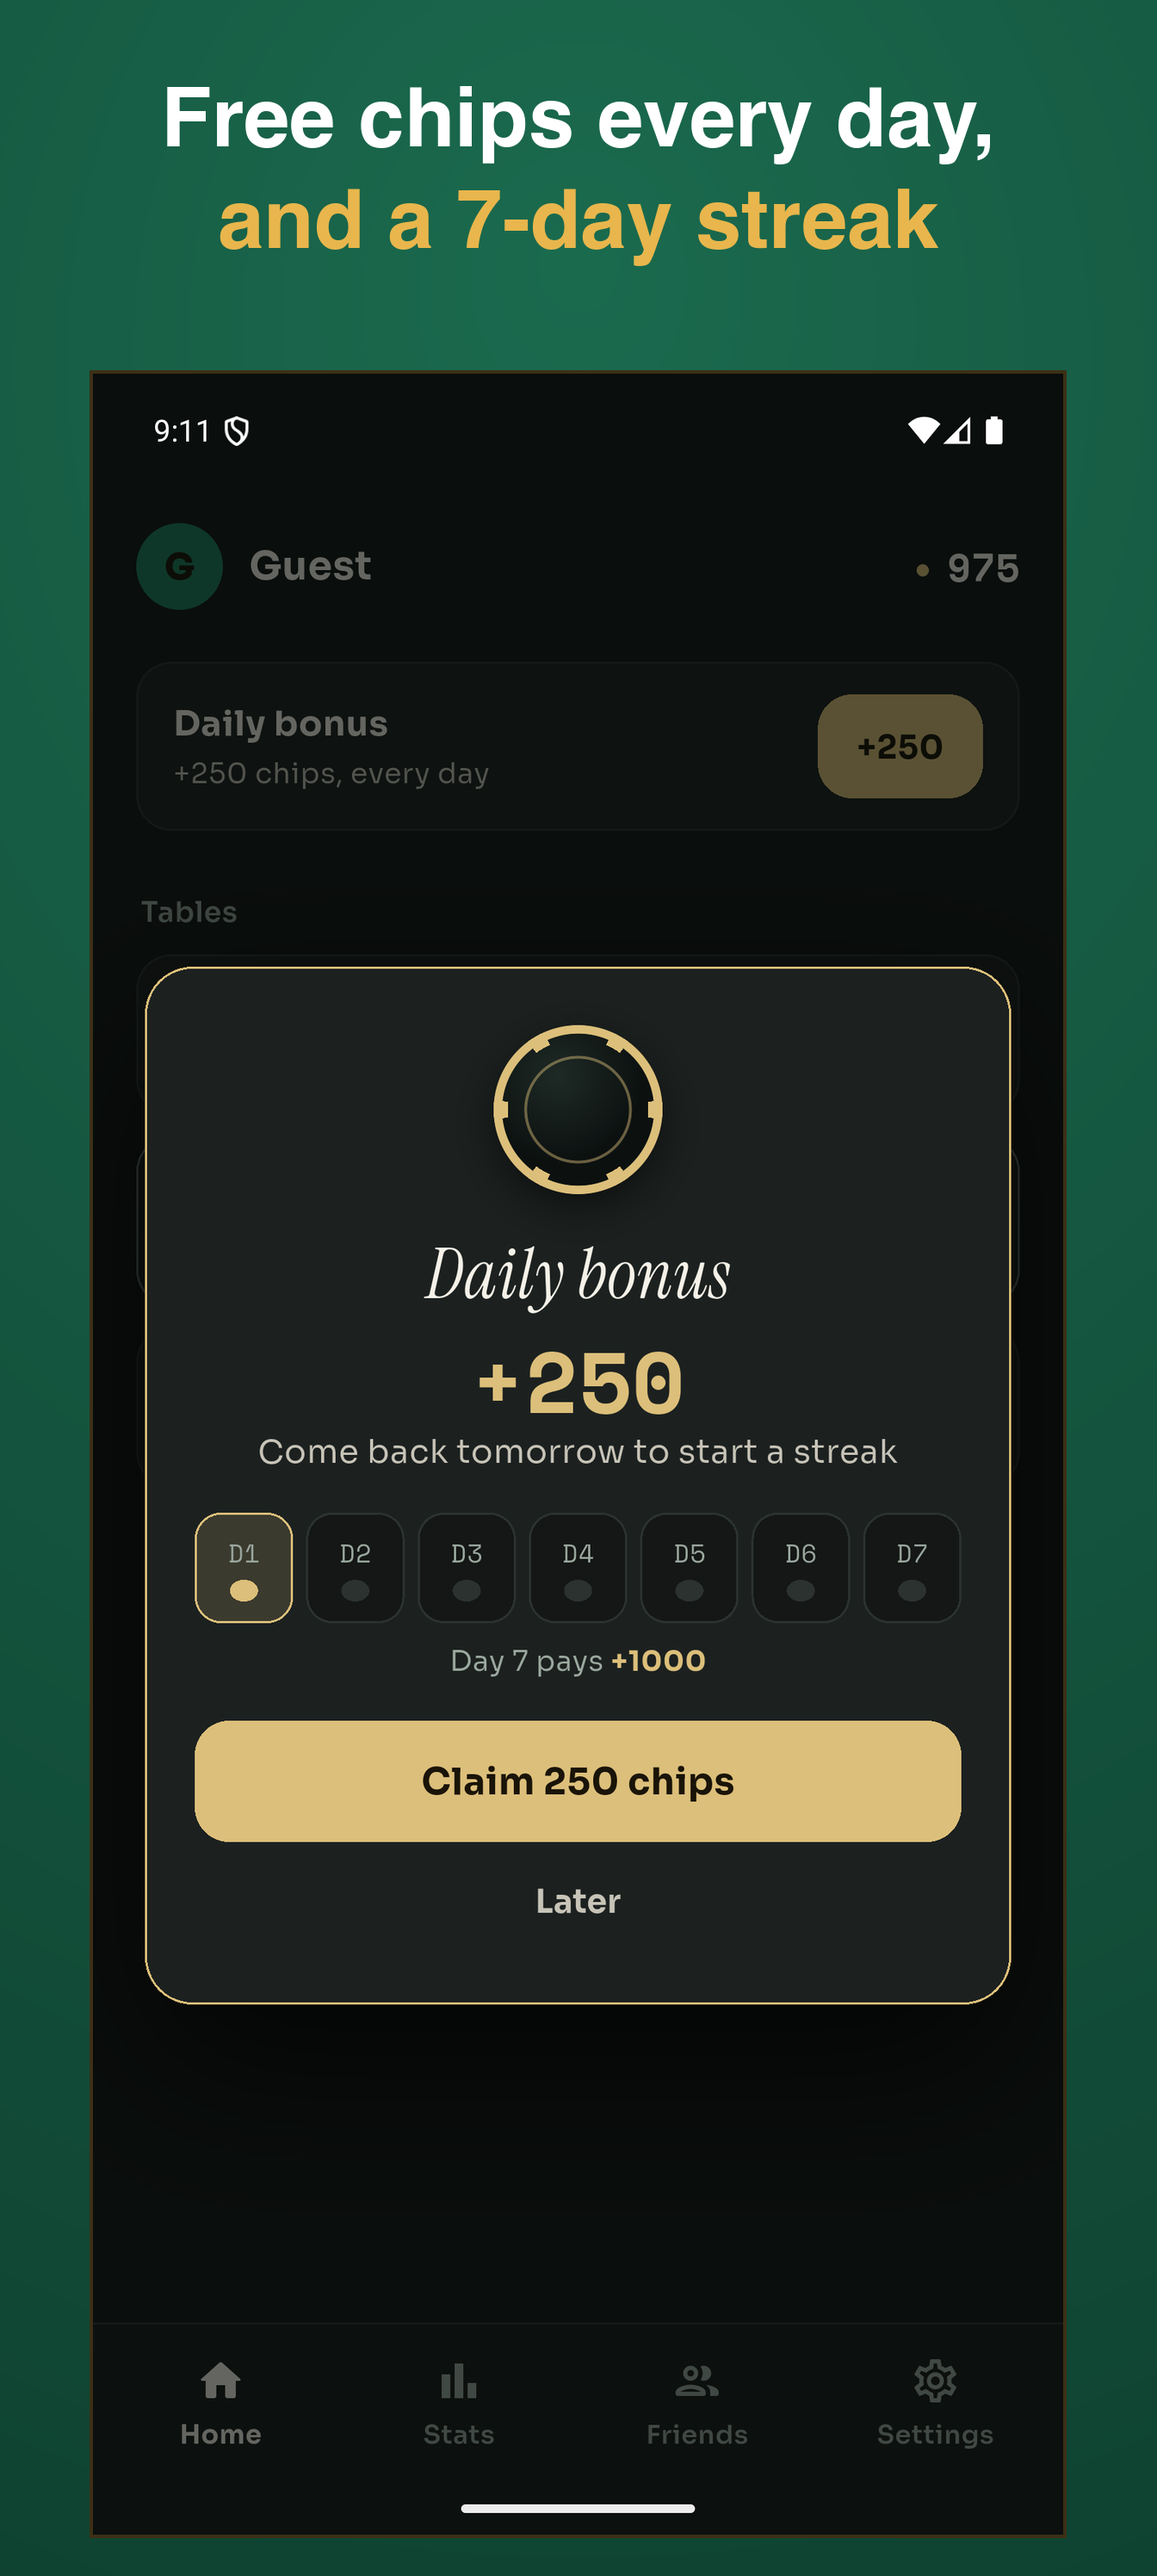
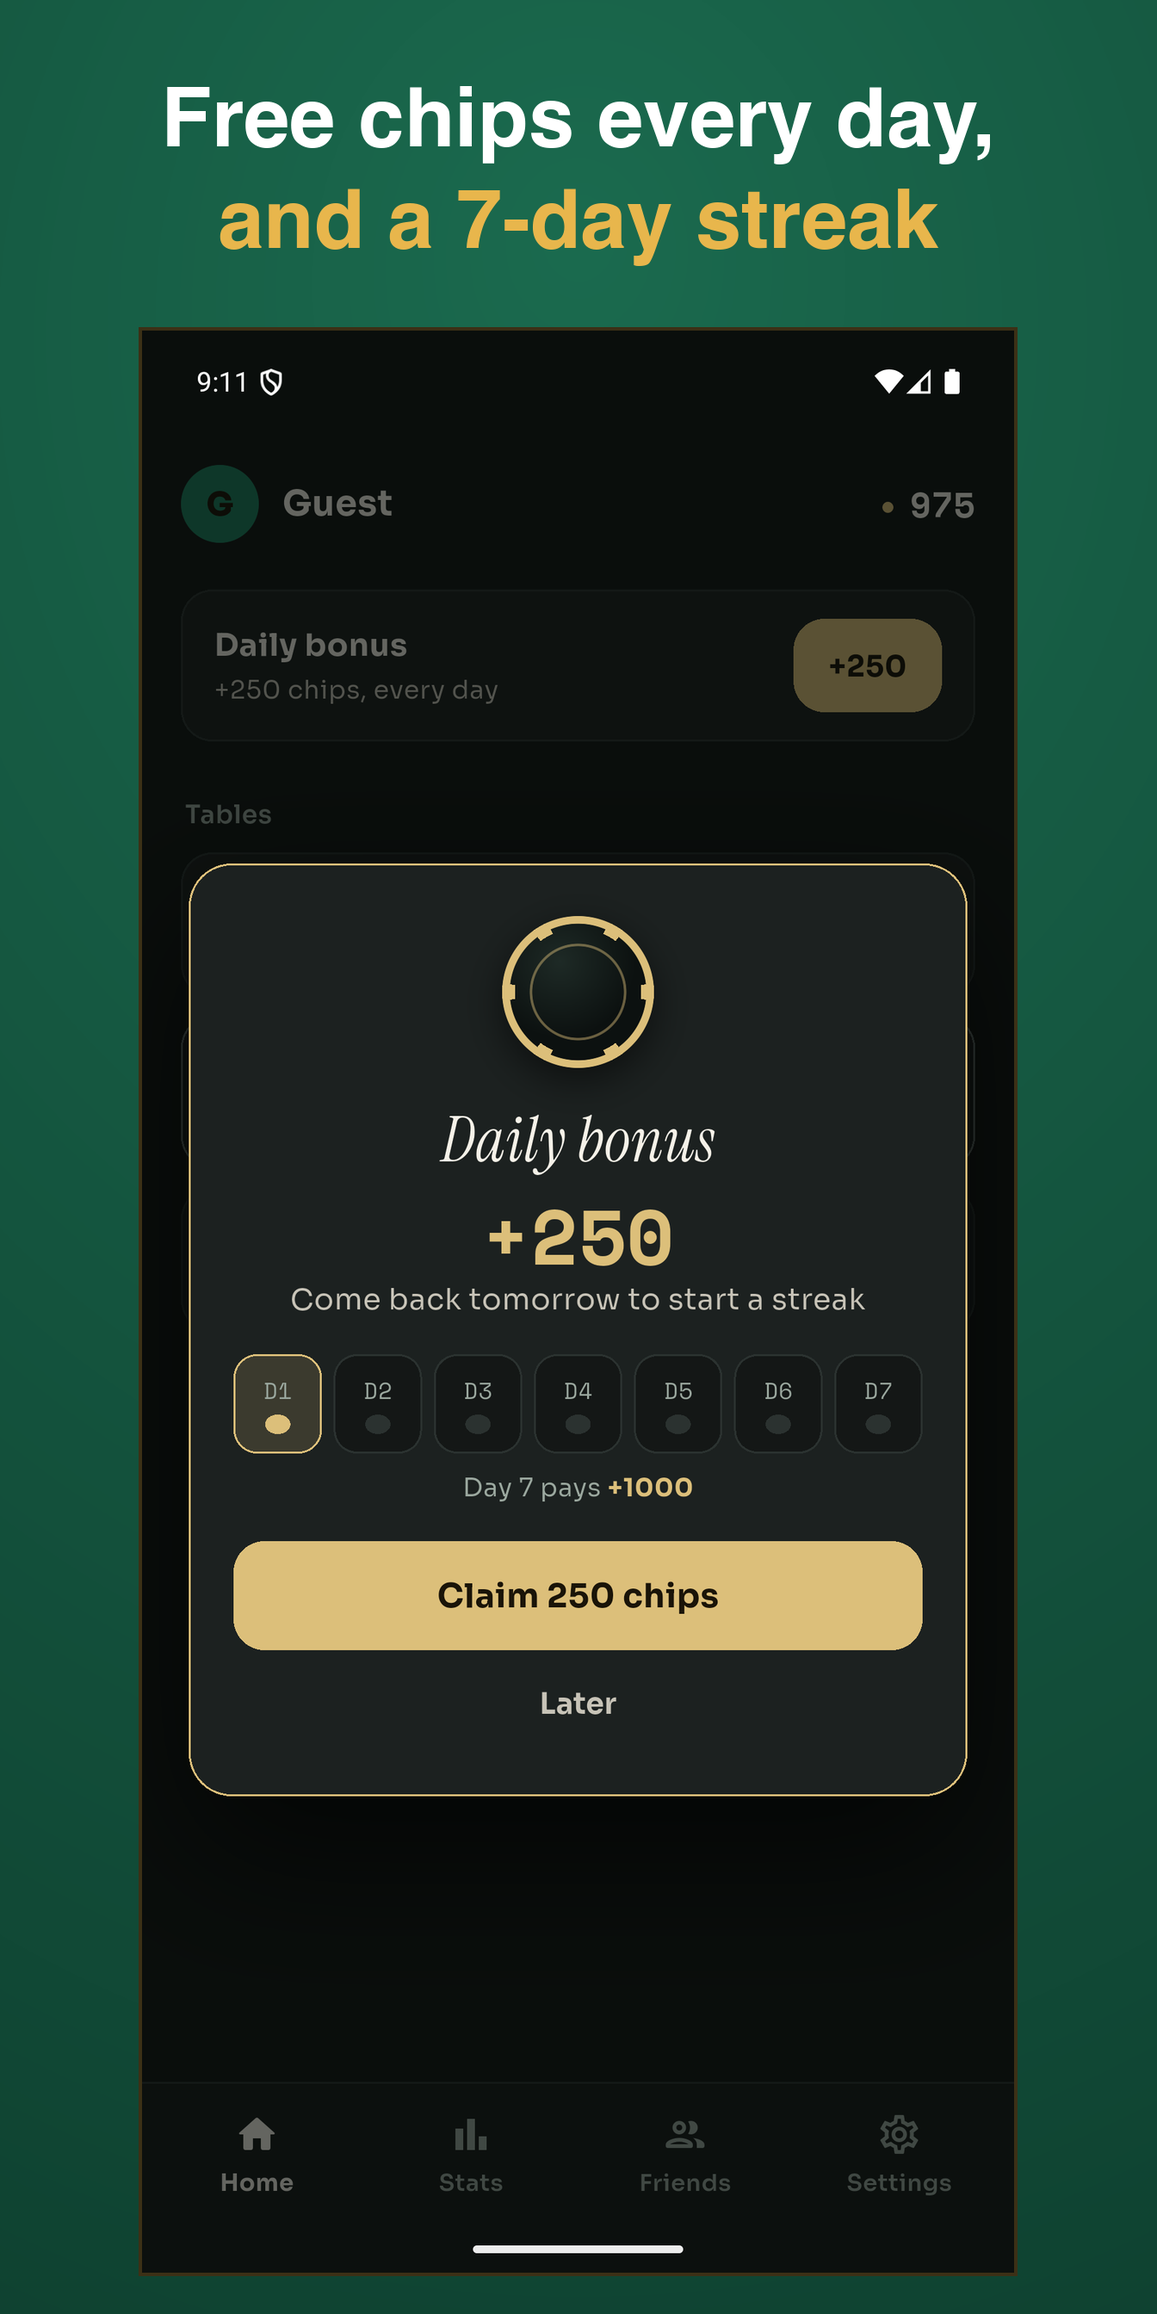
chore: upload the store images through the Play API
The listing's text already went through the Play Developer API, but its images
did not, which left the screenshots, the feature graphic and the icon as a
manual Console step every time the UI changed. tool/play_images.py closes that
gap: it clears each image slot and re-uploads from play-assets, so a refreshed
screenshot set is one command rather than fourteen file pickers.

Also fixes the screenshot canvas. Play refuses a screenshot whose long side is
more than twice its short side, and a raw device capture is 1:2.23, so the
phone set is now composed at 1344x2688 and the capture scaled to sit inside it.

diff --git a/tool/play_images.py b/tool/play_images.py
@@ -1,0 +1,118 @@
+#!/usr/bin/env python3
+"""Upload the store listing's images to Google Play.
+
+The listing's *text* can be edited through several tools, but its images have
+to go through the Android Publisher API (or the Console by hand). This does the
+API route with the same service account the bundle upload uses, so a refreshed
+screenshot set never depends on clicking through a browser.
+
+    python3 tool/play_images.py --language en-US
+
+Each image type is cleared before it is re-uploaded: Play appends otherwise,
+and the old four screenshots would sit behind the new eight.
+"""
+
+from __future__ import annotations
+
+import argparse
+import sys
+from pathlib import Path
+
+from google.oauth2 import service_account
+from googleapiclient.discovery import build
+from googleapiclient.errors import HttpError
+from googleapiclient.http import MediaFileUpload
+
+SCOPE = "https://www.googleapis.com/auth/androidpublisher"
+DEFAULT_PACKAGE = "com.micorlov.blackjack21_v2"
+DEFAULT_KEY = "android/play-service-account.json"
+ASSETS = Path(__file__).resolve().parent.parent / "play-assets"
+
+# Play's own names for the slots, and what this repo puts in each. Order is
+# preserved on the listing, so the first phone screenshot is the one a browsing
+# player sees in search results.
+IMAGE_SETS = {
+    "featureGraphic": ["feature-graphic.png"],
+    "icon": ["icon-512.png"],
+    "phoneScreenshots": [f"screen-{i:02d}.png" for i in range(1, 9)],
+    "sevenInchScreenshots": ["tab7-01.png", "tab7-02.png"],
+    "tenInchScreenshots": ["tab10-01.png", "tab10-02.png"],
+}
+
+
+def parse_args() -> argparse.Namespace:
+    parser = argparse.ArgumentParser(description=__doc__)
+    parser.add_argument("--language", default="en-US", help="listing locale to attach images to")
+    parser.add_argument("--package", default=DEFAULT_PACKAGE)
+    parser.add_argument("--key", default=DEFAULT_KEY)
+    parser.add_argument(
+        "--only",
+        help="comma-separated image types to upload; default is all of them",
+    )
+    parser.add_argument("--dry-run", action="store_true", help="list what would be uploaded")
+    return parser.parse_args()
+
+
+def run(args: argparse.Namespace) -> int:
+    wanted = IMAGE_SETS
+    if args.only:
+        keys = [k.strip() for k in args.only.split(",")]
+        unknown = [k for k in keys if k not in IMAGE_SETS]
+        if unknown:
+            print(f"error: unknown image type(s): {', '.join(unknown)}", file=sys.stderr)
+            return 1
+        wanted = {k: IMAGE_SETS[k] for k in keys}
+
+    missing = [f for files in wanted.values() for f in files if not (ASSETS / f).is_file()]
+    if missing:
+        print(f"error: missing asset(s): {', '.join(missing)}", file=sys.stderr)
+        return 1
+
+    if args.dry_run:
+        for kind, files in wanted.items():
+            print(f"{kind}: {', '.join(files)}")
+        return 0
+
+    key = Path(args.key)
+    if not key.is_file():
+        print(f"error: no service account key at {key}", file=sys.stderr)
+        return 1
+
+    credentials = service_account.Credentials.from_service_account_file(str(key), scopes=[SCOPE])
+    service = build("androidpublisher", "v3", credentials=credentials, cache_discovery=False)
+    edits = service.edits()
+
+    edit_id = edits.insert(body={}, packageName=args.package).execute()["id"]
+    print(f"opened edit {edit_id}")
+
+    for kind, files in wanted.items():
+        edits.images().deleteall(
+            packageName=args.package, editId=edit_id, language=args.language, imageType=kind
+        ).execute()
+        for name in files:
+            media = MediaFileUpload(str(ASSETS / name), mimetype="image/png", resumable=False)
+            edits.images().upload(
+                packageName=args.package,
+                editId=edit_id,
+                language=args.language,
+                imageType=kind,
+                media_body=media,
+            ).execute()
+            print(f"  uploaded {name} -> {kind}")
+
+    edits.commit(packageName=args.package, editId=edit_id).execute()
+    print(f"committed: {args.language} listing images updated")
+    return 0
+
+
+def main() -> int:
+    args = parse_args()
+    try:
+        return run(args)
+    except HttpError as error:
+        print(f"error: Play API rejected the request: {error}", file=sys.stderr)
+        return 1
+
+
+if __name__ == "__main__":
+    sys.exit(main())

diff --git a/tool/make_store_shots.py b/tool/make_store_shots.py
@@ -16,9 +16,11 @@ ROOT = Path(__file__).resolve().parent.parent
 RAW = ROOT / 'play-assets' / 'raw'
 OUT = ROOT / 'play-assets'
 
-# Play's phone screenshots: 16:9-ish portrait, max 3840px on the long edge.
-W, H = 1344, 2992
-BAND = 430           # caption band height
+# Play rejects a screenshot whose long side is more than twice its short side,
+# and a raw 1344x2992 capture is 1:2.23 — so the canvas is exactly 2:1 and the
+# capture is scaled to sit inside it under the caption band.
+W, H = 1344, 2688
+BAND = 380           # caption band height
 GAP = 26
 GOLD = (232, 182, 76)
 WHITE = (255, 255, 255)

diff --git a/README.md b/README.md
@@ -208,6 +208,7 @@ lib/
 tool/
 ├── play_upload.py            # uploads a signed .aab to a Play track (Android Publisher API v3)
 ├── make_store_shots.py       # composes captioned store screenshots from raw device captures
+├── play_images.py            # uploads the listing's images (screenshots, feature graphic, icon)
 ├── make_promo.py             # cuts the 30s vertical promo from a screenrecord of a real session
 └── release_notes_en-US.txt   # en-US release notes passed to --notes-file
 
@@ -241,8 +242,18 @@ Tablet captures come from the same emulator with `adb shell wm size 1200x1920` (
 `1600x2560`) plus a matching `wm density`; reset both with `wm size reset` / `wm density reset`
 afterwards. The feature graphic is rendered from its HTML with headless Chrome at 1024×500.
 
-Store *text* goes through the Play Developer API and needs no browser. Images, the developer
-name and the category still have to be set in the Play Console UI.
+Store *text* and *images* both go through the Play Developer API and need no browser:
+
+```bash
+python3 tool/play_images.py --language en-US    # feature graphic, icon, phone + tablet shots
+```
+
+Play rejects a screenshot whose long side is more than twice its short side, which is why the
+phone set is composed at 1344x2688 rather than at the device's own 1344x2992.
+
+Only three things still need the Console UI: the developer name, the app category and tags, and
+the listing video (which must be a public YouTube link, so the MP4 is uploaded to YouTube first
+and the watch URL is then set through the API).
 
 ### Publishing to Google Play
 
@@ -459,6 +470,16 @@ SHA-1 is registered in the Firebase project. **Play as Guest** is unaffected —
 emulator testing.
 
 ## Changelog
+
+### 2026-09-08 (3)
+- chore: **released 1.6.0 (7) to Google Play production at 100%**, and rebuilt the listing around
+  it: all 14 images uploaded through the Play Developer API (feature graphic, icon, eight phone
+  screenshots, two 7-inch and two 10-inch tablet shots), the promo published to YouTube and
+  attached as the listing video, the developer name changed to Orlov Games, and the category moved
+  from Card to Casino with Blackjack and Card tags. `tool/play_images.py` is new and does the
+  image half of that without a browser
+- fix: **store screenshots are composed at 1344x2688, not 1344x2992.** Play rejects any screenshot
+  taller than twice its width, so the first set would have been refused on upload
 
 ### 2026-09-08 (2)
 - chore: **new Play Store listing, in eleven languages.** Title, short and full description
